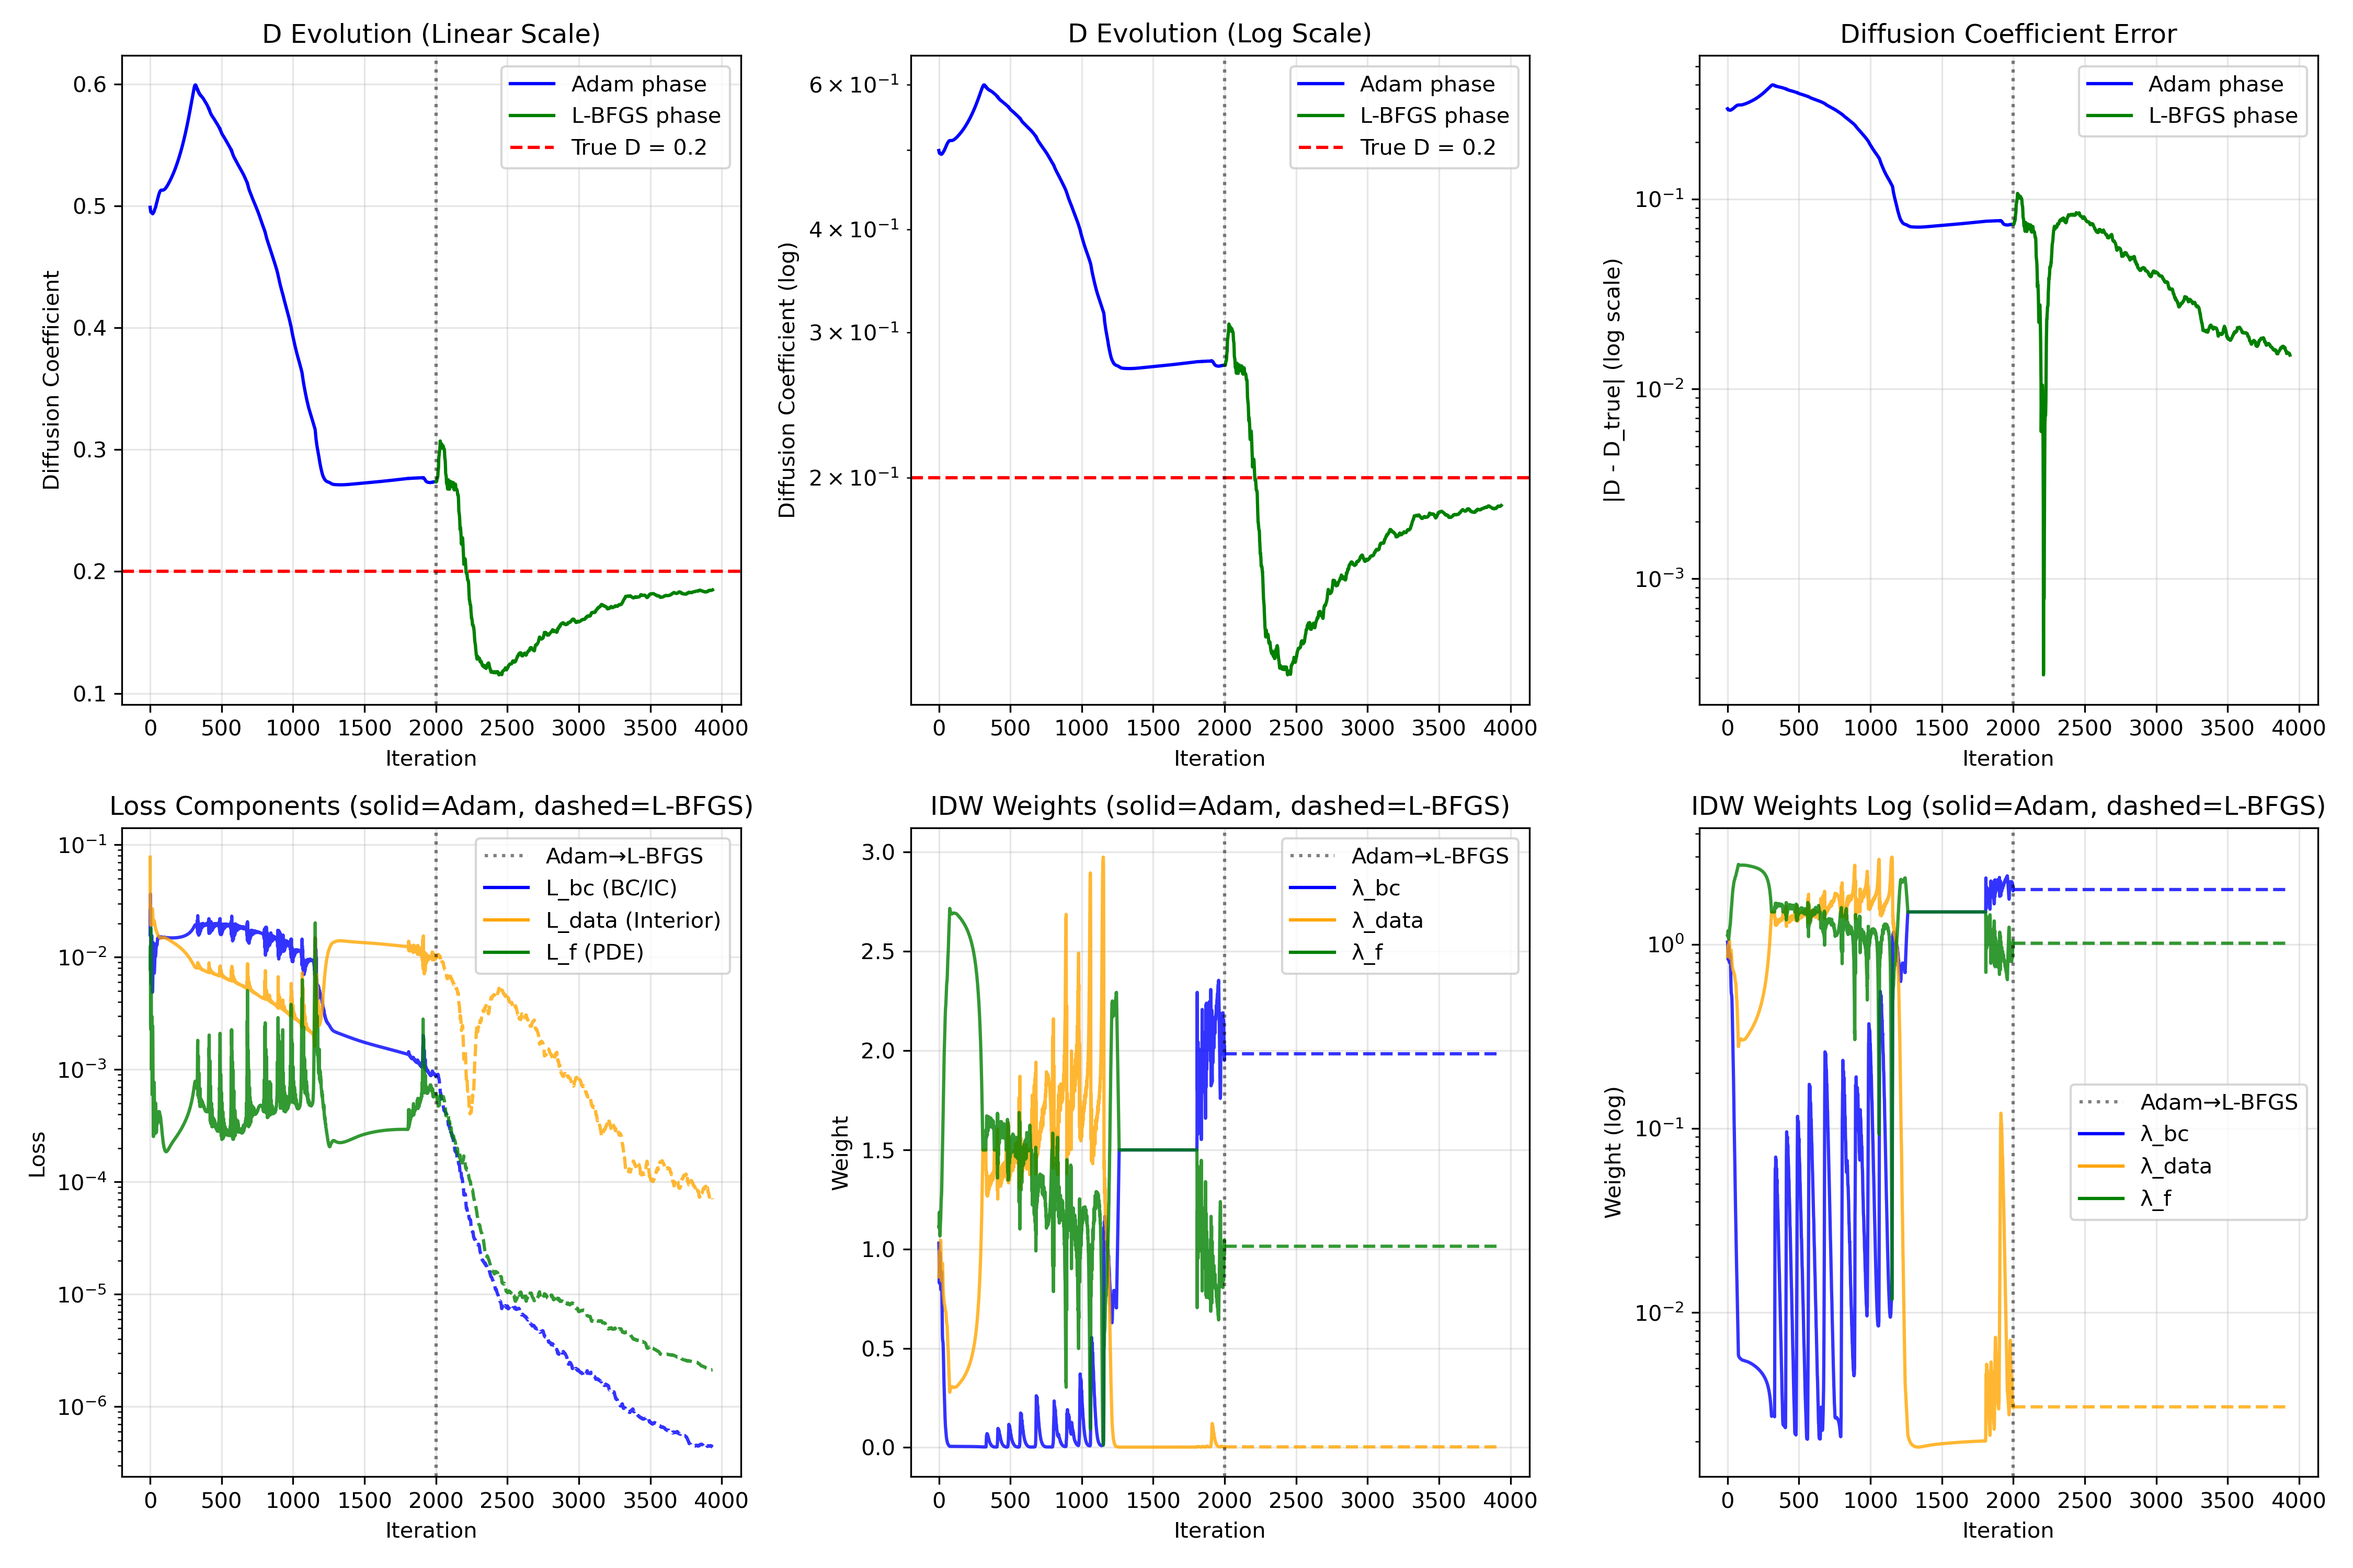
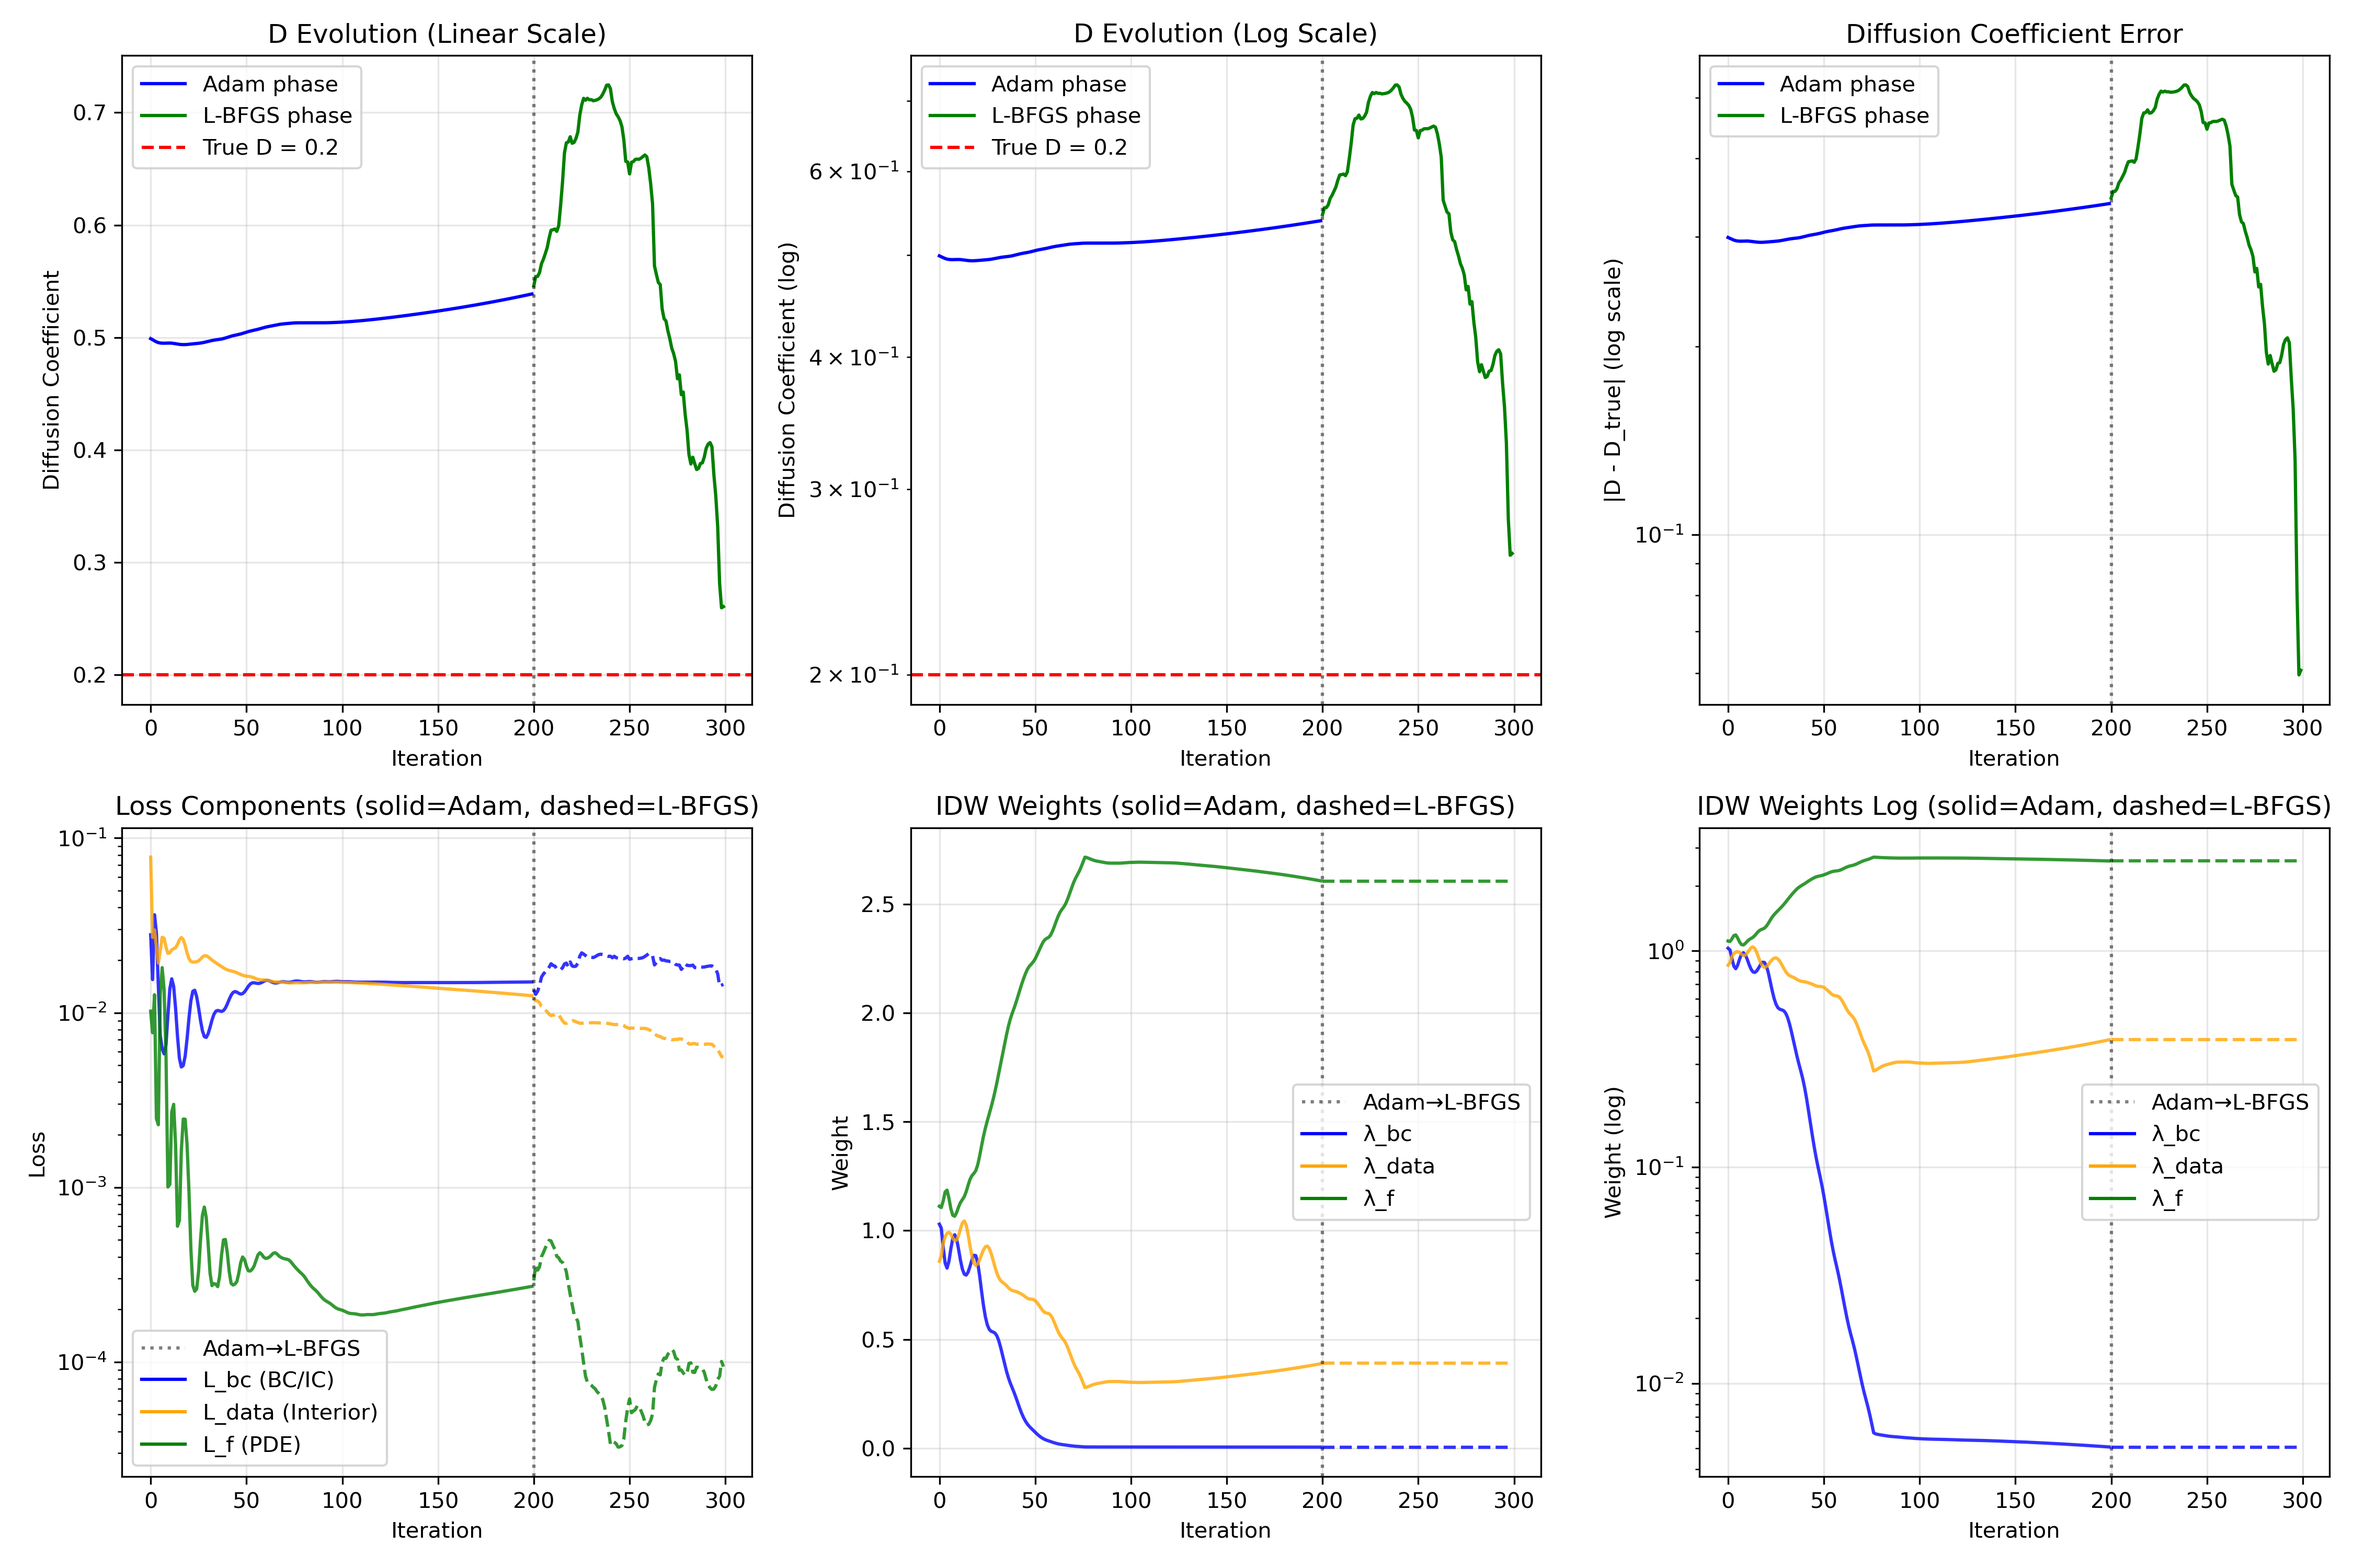
v0.0.0 Diffusion propegation graph fixed and L-BFGS print out updated to every 200 epochs with dt

diff --git a/2D_num_inv_IDW_newPrintOut_newFigs.py b/2D_num_inv_IDW_newPrintOut_newFigs.py
@@ -29,7 +29,7 @@ IDW_EMA_BETA = 0.9            # EMA smoothing for gradient energies
 IDW_EPS = 1e-12               # small epsilon to avoid divide-by-zero
 IDW_CLAMP = (1e-3, 1e3)       # clamp raw weights before normalization (stability)
 ADAM_LR = 1e-3
-ADAM_EPOCHS = 2000            # More epochs for 2D inverse problem
+ADAM_EPOCHS = 200            # More epochs for 2D inverse problem
 PRINT_EVERY = 200
 FREEZE_BEFORE_LBFGS = True    # freeze the learned weights before L-BFGS
 WEIGHT_SUM_TARGET = 3.0       # three tasks now (BC/IC, Data, PDE) -> normalize to sum ~ 3
@@ -265,6 +265,10 @@ class Sequentialmodel(tf.Module):
 
         # Trainable diffusion coefficient
         self.diff_coeff = tf.Variable(DIFF_COEFF_INIT, dtype=tf.float64, trainable=True, name="diff_coeff")
+        
+        # L-BFGS iteration counter and timing
+        self.lbfgs_iter = 0
+        self.lbfgs_last_print_time = None
 
     @property
     def trainable_variables(self):
@@ -468,6 +472,8 @@ class Sequentialmodel(tf.Module):
         global diff_coeff_history_lbfgs, loss_bc_history_lbfgs, loss_data_history_lbfgs
         global loss_f_history_lbfgs, lam_bc_history_lbfgs, lam_data_history_lbfgs, lam_f_history_lbfgs
         
+        self.lbfgs_iter += 1
+        
         loss_value, loss_bc, loss_data, loss_f, lam_bc, lam_data, lam_f = self.loss(
             X_u_train, u_train, X_obs, u_obs, X_f_train)
         u_pred = self.evaluate(X_u_test)
@@ -483,9 +489,21 @@ class Sequentialmodel(tf.Module):
         lam_data_history_lbfgs.append(lam_data.numpy())
         lam_f_history_lbfgs.append(lam_f.numpy())
         
-        tf.print("L:", loss_value, "Lbc:", loss_bc, "Ldata:", loss_data, "Lf:", loss_f,
-                 "lam_bc:", lam_bc, "lam_data:", lam_data, "lam_f:", lam_f,
-                 "relL2:", error_vec, "D:", self.diff_coeff, "D_err:", diff_error)
+        # Print every PRINT_EVERY iterations
+        if self.lbfgs_iter % PRINT_EVERY == 0 or self.lbfgs_iter == 1:
+            current_time = time.time()
+            if self.lbfgs_last_print_time is not None:
+                elapsed = current_time - self.lbfgs_last_print_time
+                time_str = f"  dt={elapsed:.1f}s"
+            else:
+                time_str = ""
+            self.lbfgs_last_print_time = current_time
+            
+            print(f"[L-BFGS {self.lbfgs_iter:5d}] L={loss_value.numpy():.3e}  Lbc={loss_bc.numpy():.3e}  "
+                  f"Ldata={loss_data.numpy():.3e}  Lf={loss_f.numpy():.3e}")
+            print(f"              lam_bc={lam_bc.numpy():.3e}  lam_data={lam_data.numpy():.3e}  "
+                  f"lam_f={lam_f.numpy():.3e}")
+            print(f"              relL2={error_vec:.3e}  D={self.diff_coeff.numpy():.4f}  D_err={diff_error:.4f}{time_str}")
 
 
 def solutionplot_2D(u_pred, usol, x, y, t, diff_coeff_learned, X_obs, X_u_train):
@@ -493,11 +511,10 @@ def solutionplot_2D(u_pred, usol, x, y, t, diff_coeff_learned, X_obs, X_u_train)
     # Reshape prediction to match solution shape
     u_pred_reshaped = np.reshape(u_pred, usol.shape, order='C')
     
-    # Select 4 time indices for plotting (reduced from 5)
+    # Select 4 time indices for plotting
     nt = len(t)
     t_indices = [0, nt//3, 2*nt//3, nt-1]
-    
-    fig, axes = plt.subplots(3, len(t_indices), figsize=(16, 12))
+    n_cols = len(t_indices)
     
     X, Y = np.meshgrid(x, y, indexing='ij')
     
@@ -510,43 +527,69 @@ def solutionplot_2D(u_pred, usol, x, y, t, diff_coeff_learned, X_obs, X_u_train)
     err_vmin = 0
     err_vmax = error_all.max()
     
-    for i, ti in enumerate(t_indices):
-        # True solution - fixed colorbar
-        im0 = axes[0, i].pcolormesh(X, Y, usol[:, :, ti], cmap='jet', shading='auto',
-                                     vmin=u_vmin, vmax=u_vmax)
-        axes[0, i].set_title(f'True, t={t[ti]:.3f}s')
-        axes[0, i].set_xlabel('x')
-        axes[0, i].set_ylabel('y')
-        axes[0, i].set_aspect('equal')
-        
-        # Predicted solution - fixed colorbar
-        im1 = axes[1, i].pcolormesh(X, Y, u_pred_reshaped[:, :, ti], cmap='jet', shading='auto',
-                                     vmin=u_vmin, vmax=u_vmax)
-        axes[1, i].set_title(f'Predicted, t={t[ti]:.3f}s')
-        axes[1, i].set_xlabel('x')
-        axes[1, i].set_ylabel('y')
-        axes[1, i].set_aspect('equal')
-        
-        # Error - fixed colorbar
-        error = np.abs(usol[:, :, ti] - u_pred_reshaped[:, :, ti])
-        im2 = axes[2, i].pcolormesh(X, Y, error, cmap='hot', shading='auto',
-                                     vmin=err_vmin, vmax=err_vmax)
-        axes[2, i].set_title(f'|Error|, t={t[ti]:.3f}s')
-        axes[2, i].set_xlabel('x')
-        axes[2, i].set_ylabel('y')
-        axes[2, i].set_aspect('equal')
+    # Create figure with GridSpec for precise control
+    # 4 columns for plots + 1 narrow column for colorbar
+    fig = plt.figure(figsize=(14, 10))
+    gs = gridspec.GridSpec(3, n_cols + 1, width_ratios=[1, 1, 1, 1, 0.05], 
+                           wspace=0.25, hspace=0.3)
     
-    # Add single colorbar per row
-    cbar0 = fig.colorbar(im0, ax=axes[0, :], orientation='vertical', fraction=0.02, pad=0.02)
-    cbar0.set_label('u (True)')
-    cbar1 = fig.colorbar(im1, ax=axes[1, :], orientation='vertical', fraction=0.02, pad=0.02)
-    cbar1.set_label('u (Predicted)')
-    cbar2 = fig.colorbar(im2, ax=axes[2, :], orientation='vertical', fraction=0.02, pad=0.02)
-    cbar2.set_label('|Error|')
+    # Row 0: True solution
+    axes_true = [fig.add_subplot(gs[0, i]) for i in range(n_cols)]
+    for i, ti in enumerate(t_indices):
+        im0 = axes_true[i].pcolormesh(X, Y, usol[:, :, ti], cmap='jet', shading='auto',
+                                       vmin=u_vmin, vmax=u_vmax)
+        axes_true[i].set_title(f'True, t={t[ti]:.3f}s', fontsize=10)
+        axes_true[i].set_xlabel('x', fontsize=9)
+        if i == 0:
+            axes_true[i].set_ylabel('y', fontsize=9)
+        axes_true[i].set_aspect('equal')
+        axes_true[i].tick_params(labelsize=8)
+    
+    # Colorbar for row 0
+    cax0 = fig.add_subplot(gs[0, n_cols])
+    cbar0 = fig.colorbar(im0, cax=cax0)
+    cbar0.set_label('u (True)', fontsize=9)
+    cbar0.ax.tick_params(labelsize=8)
+    
+    # Row 1: Predicted solution
+    axes_pred = [fig.add_subplot(gs[1, i]) for i in range(n_cols)]
+    for i, ti in enumerate(t_indices):
+        im1 = axes_pred[i].pcolormesh(X, Y, u_pred_reshaped[:, :, ti], cmap='jet', shading='auto',
+                                       vmin=u_vmin, vmax=u_vmax)
+        axes_pred[i].set_title(f'Predicted, t={t[ti]:.3f}s', fontsize=10)
+        axes_pred[i].set_xlabel('x', fontsize=9)
+        if i == 0:
+            axes_pred[i].set_ylabel('y', fontsize=9)
+        axes_pred[i].set_aspect('equal')
+        axes_pred[i].tick_params(labelsize=8)
+    
+    # Colorbar for row 1
+    cax1 = fig.add_subplot(gs[1, n_cols])
+    cbar1 = fig.colorbar(im1, cax=cax1)
+    cbar1.set_label('u (Pred)', fontsize=9)
+    cbar1.ax.tick_params(labelsize=8)
+    
+    # Row 2: Error
+    axes_err = [fig.add_subplot(gs[2, i]) for i in range(n_cols)]
+    for i, ti in enumerate(t_indices):
+        error = np.abs(usol[:, :, ti] - u_pred_reshaped[:, :, ti])
+        im2 = axes_err[i].pcolormesh(X, Y, error, cmap='hot', shading='auto',
+                                      vmin=err_vmin, vmax=err_vmax)
+        axes_err[i].set_title(f'|Error|, t={t[ti]:.3f}s', fontsize=10)
+        axes_err[i].set_xlabel('x', fontsize=9)
+        if i == 0:
+            axes_err[i].set_ylabel('y', fontsize=9)
+        axes_err[i].set_aspect('equal')
+        axes_err[i].tick_params(labelsize=8)
+    
+    # Colorbar for row 2
+    cax2 = fig.add_subplot(gs[2, n_cols])
+    cbar2 = fig.colorbar(im2, cax=cax2)
+    cbar2.set_label('|Error|', fontsize=9)
+    cbar2.ax.tick_params(labelsize=8)
     
     plt.suptitle(f'2D Diffusion: Learned D = {diff_coeff_learned:.4f} (True: {DIFF_COEFF_TRUE})', fontsize=14)
-    plt.tight_layout()
-    plt.savefig('diff2D_IDW_inverse.png', dpi=300)
+    plt.savefig('diff2D_IDW_inverse.png', dpi=300, bbox_inches='tight')
     print("Saved: diff2D_IDW_inverse.png")
 
 
@@ -604,6 +647,9 @@ if __name__ == "__main__":
         return loss_val, loss_bc, loss_data, loss_f, lam_bc, lam_data, lam_f
 
     print("\n--- Adam warm-up (IDW dynamic) ---")
+    adam_start_time = time.time()
+    last_print_time = adam_start_time
+    
     for epoch in range(1, ADAM_EPOCHS + 1):
         loss_val, L_bc, L_data, L_f, lam_bc, lam_data, lam_f = train_step()
         
@@ -617,6 +663,10 @@ if __name__ == "__main__":
         lam_f_history.append(lam_f.numpy())
         
         if epoch % PRINT_EVERY == 0 or epoch == 1 or epoch == ADAM_EPOCHS:
+            current_time = time.time()
+            elapsed = current_time - last_print_time
+            last_print_time = current_time
+            
             u_pred_tmp = PINN.evaluate(X_u_test)
             err_tmp = np.linalg.norm((u_test - u_pred_tmp), 2) / np.linalg.norm(u_test, 2)
             diff_err = np.abs(PINN.diff_coeff.numpy() - DIFF_COEFF_TRUE)
@@ -624,7 +674,10 @@ if __name__ == "__main__":
                   f"Ldata={L_data.numpy():.3e}  Lf={L_f.numpy():.3e}")
             print(f"             lam_bc={lam_bc.numpy():.3e}  lam_data={lam_data.numpy():.3e}  "
                   f"lam_f={lam_f.numpy():.3e}")
-            print(f"             relL2={err_tmp:.3e}  D={PINN.diff_coeff.numpy():.4f}  D_err={diff_err:.4f}")
+            print(f"             relL2={err_tmp:.3e}  D={PINN.diff_coeff.numpy():.4f}  D_err={diff_err:.4f}  dt={elapsed:.1f}s")
+
+    adam_total_time = time.time() - adam_start_time
+    print(f"\nAdam training time: {adam_total_time:.2f}s")
 
     # Freeze IDW weights before L-BFGS
     if FREEZE_BEFORE_LBFGS:
@@ -648,6 +701,10 @@ if __name__ == "__main__":
     lam_bc_history_lbfgs = []
     lam_data_history_lbfgs = []
     lam_f_history_lbfgs = []
+    
+    # Reset L-BFGS iteration counter
+    PINN.lbfgs_iter = 0
+    PINN.lbfgs_last_print_time = time.time()
 
     results = scipy.optimize.minimize(fun=PINN.optimizerfunc,
                                       x0=PINN.get_weights().numpy(),
@@ -660,13 +717,15 @@ if __name__ == "__main__":
                                                'ftol': 1 * np.finfo(float).eps,
                                                'gtol': 5e-8,
                                                'maxfun': 2000,
-                                               'maxiter': 3000,
+                                               'maxiter': 100,
                                                'iprint': -1,
                                                'maxls': 50})
 
     elapsed = time.time() - start_time
-    print('Training time: %.2f' % (elapsed))
-    print(results)
+    print(f'\nL-BFGS training time: {elapsed:.2f}s')
+    print(f'Total training time: {adam_total_time + elapsed:.2f}s')
+    print(f'L-BFGS termination: {results.message}')
+    print(f'L-BFGS iterations: {results.nit}, function evals: {results.nfev}')
 
     PINN.set_weights(results.x)
 
